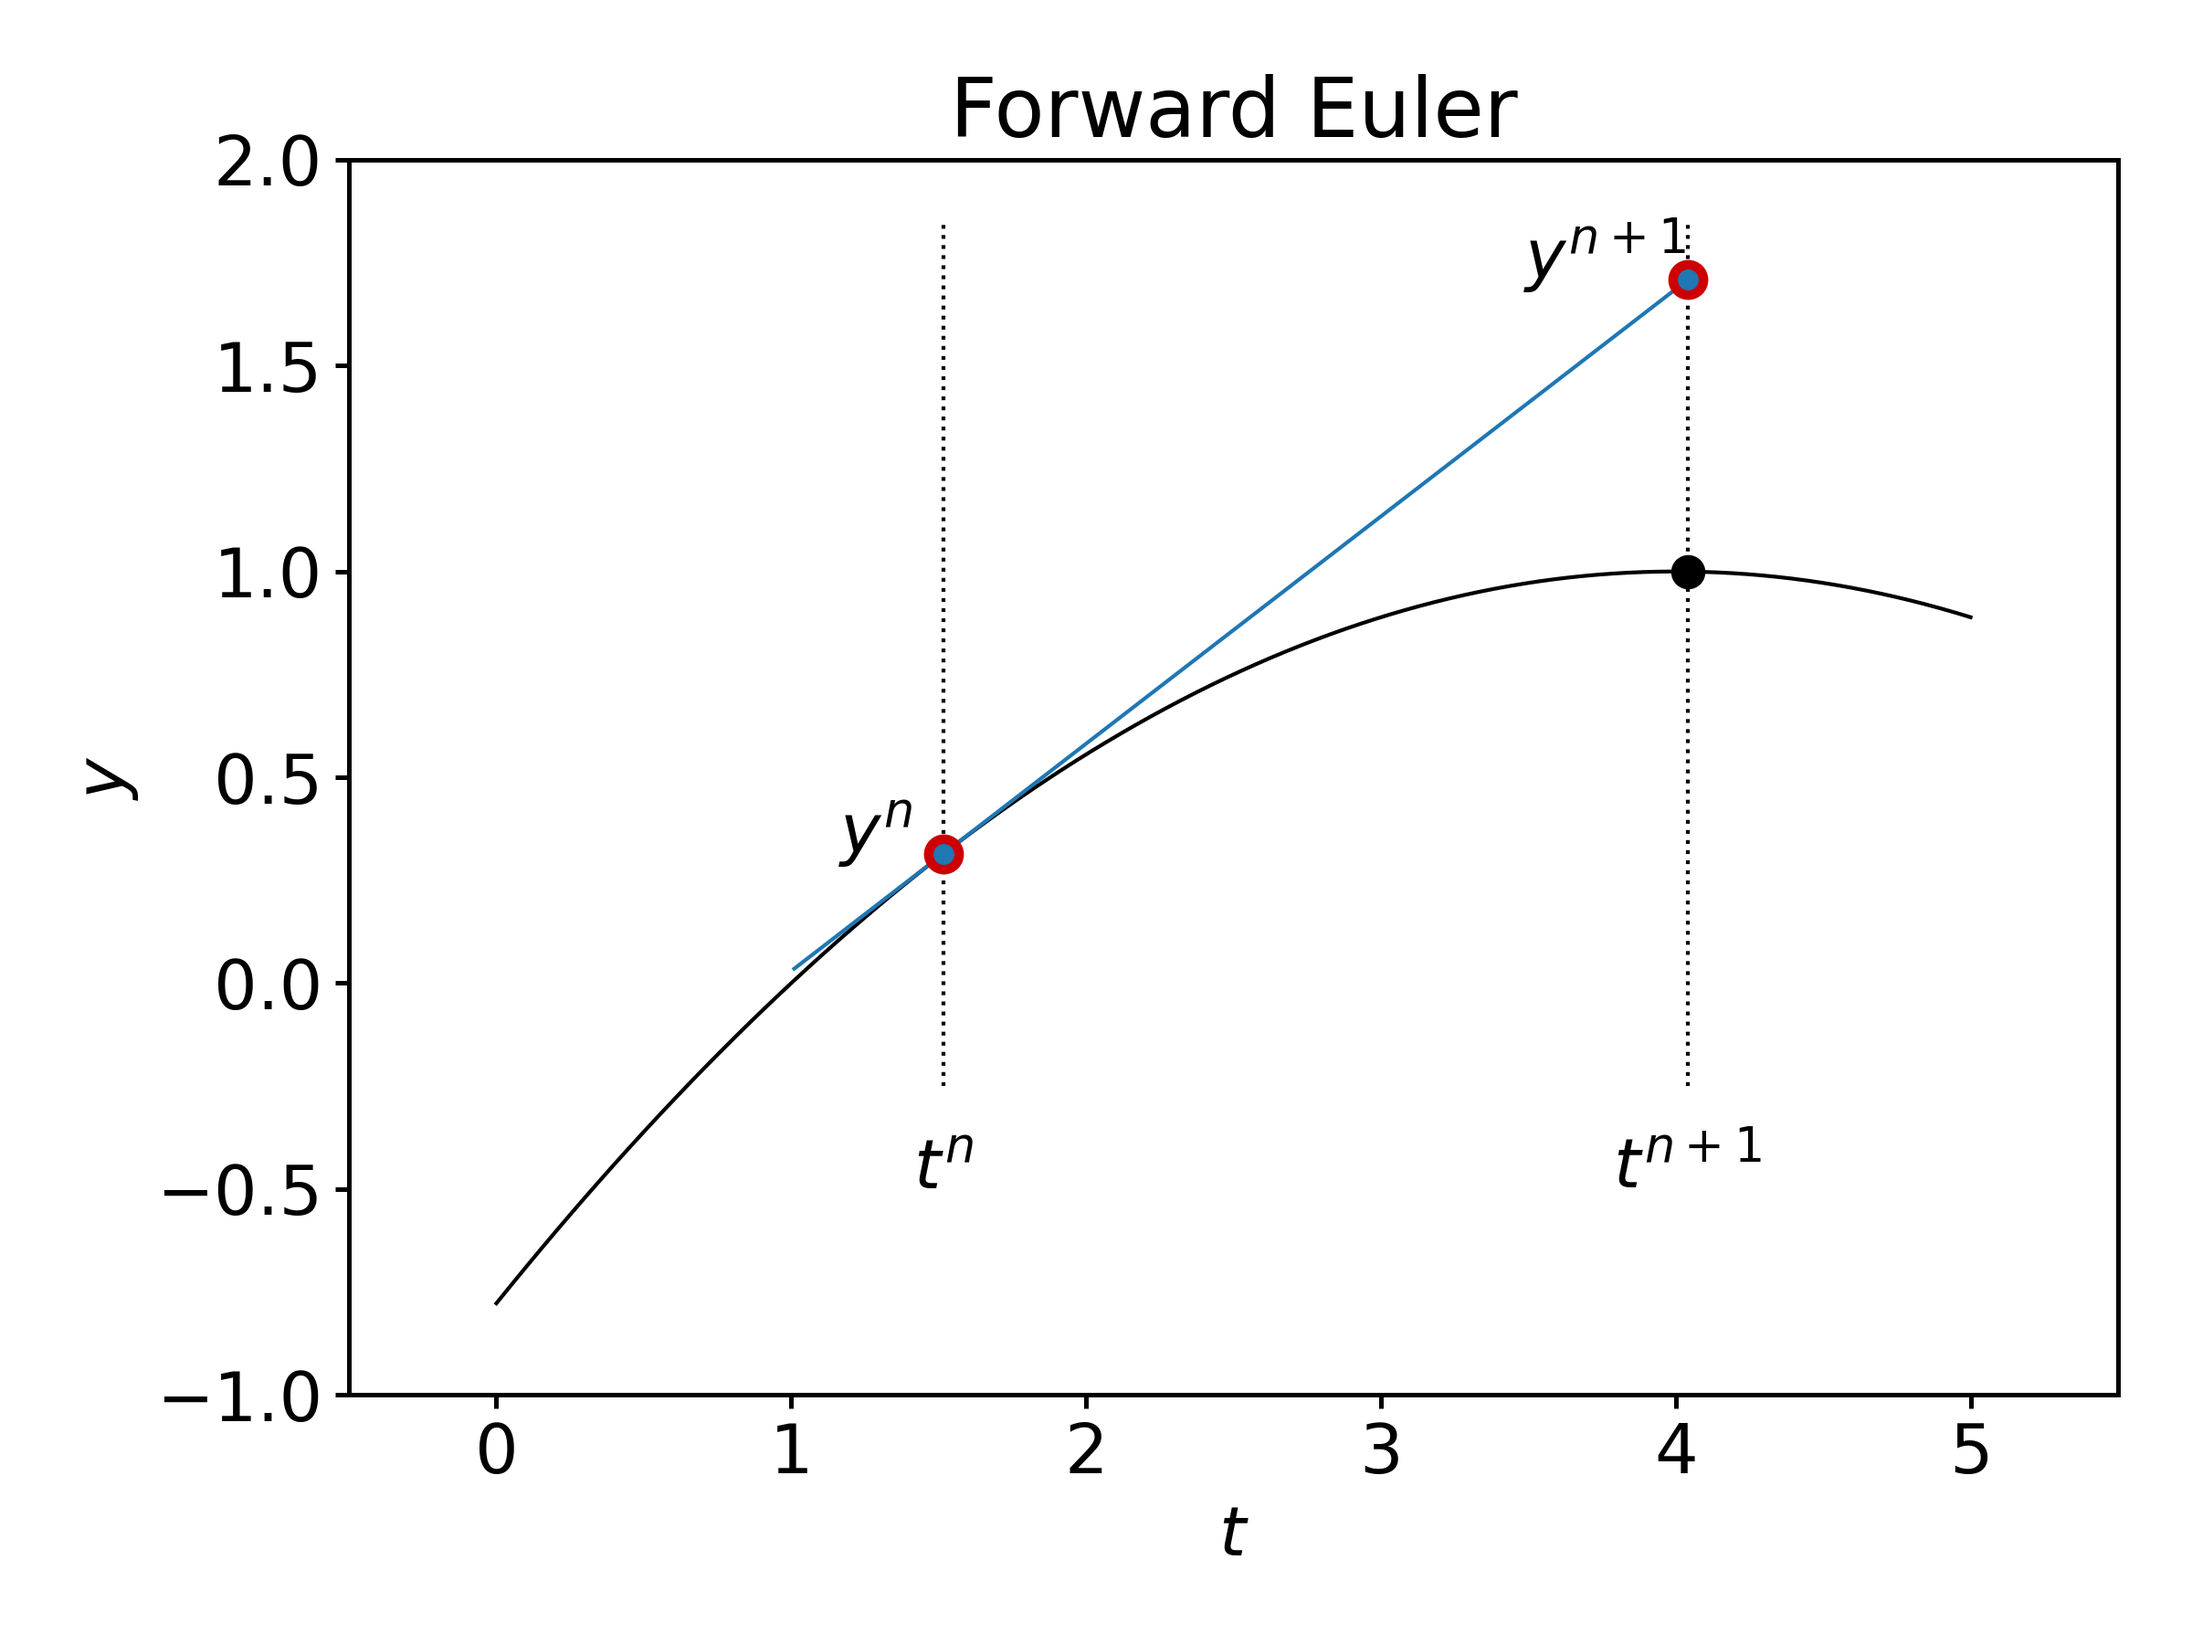
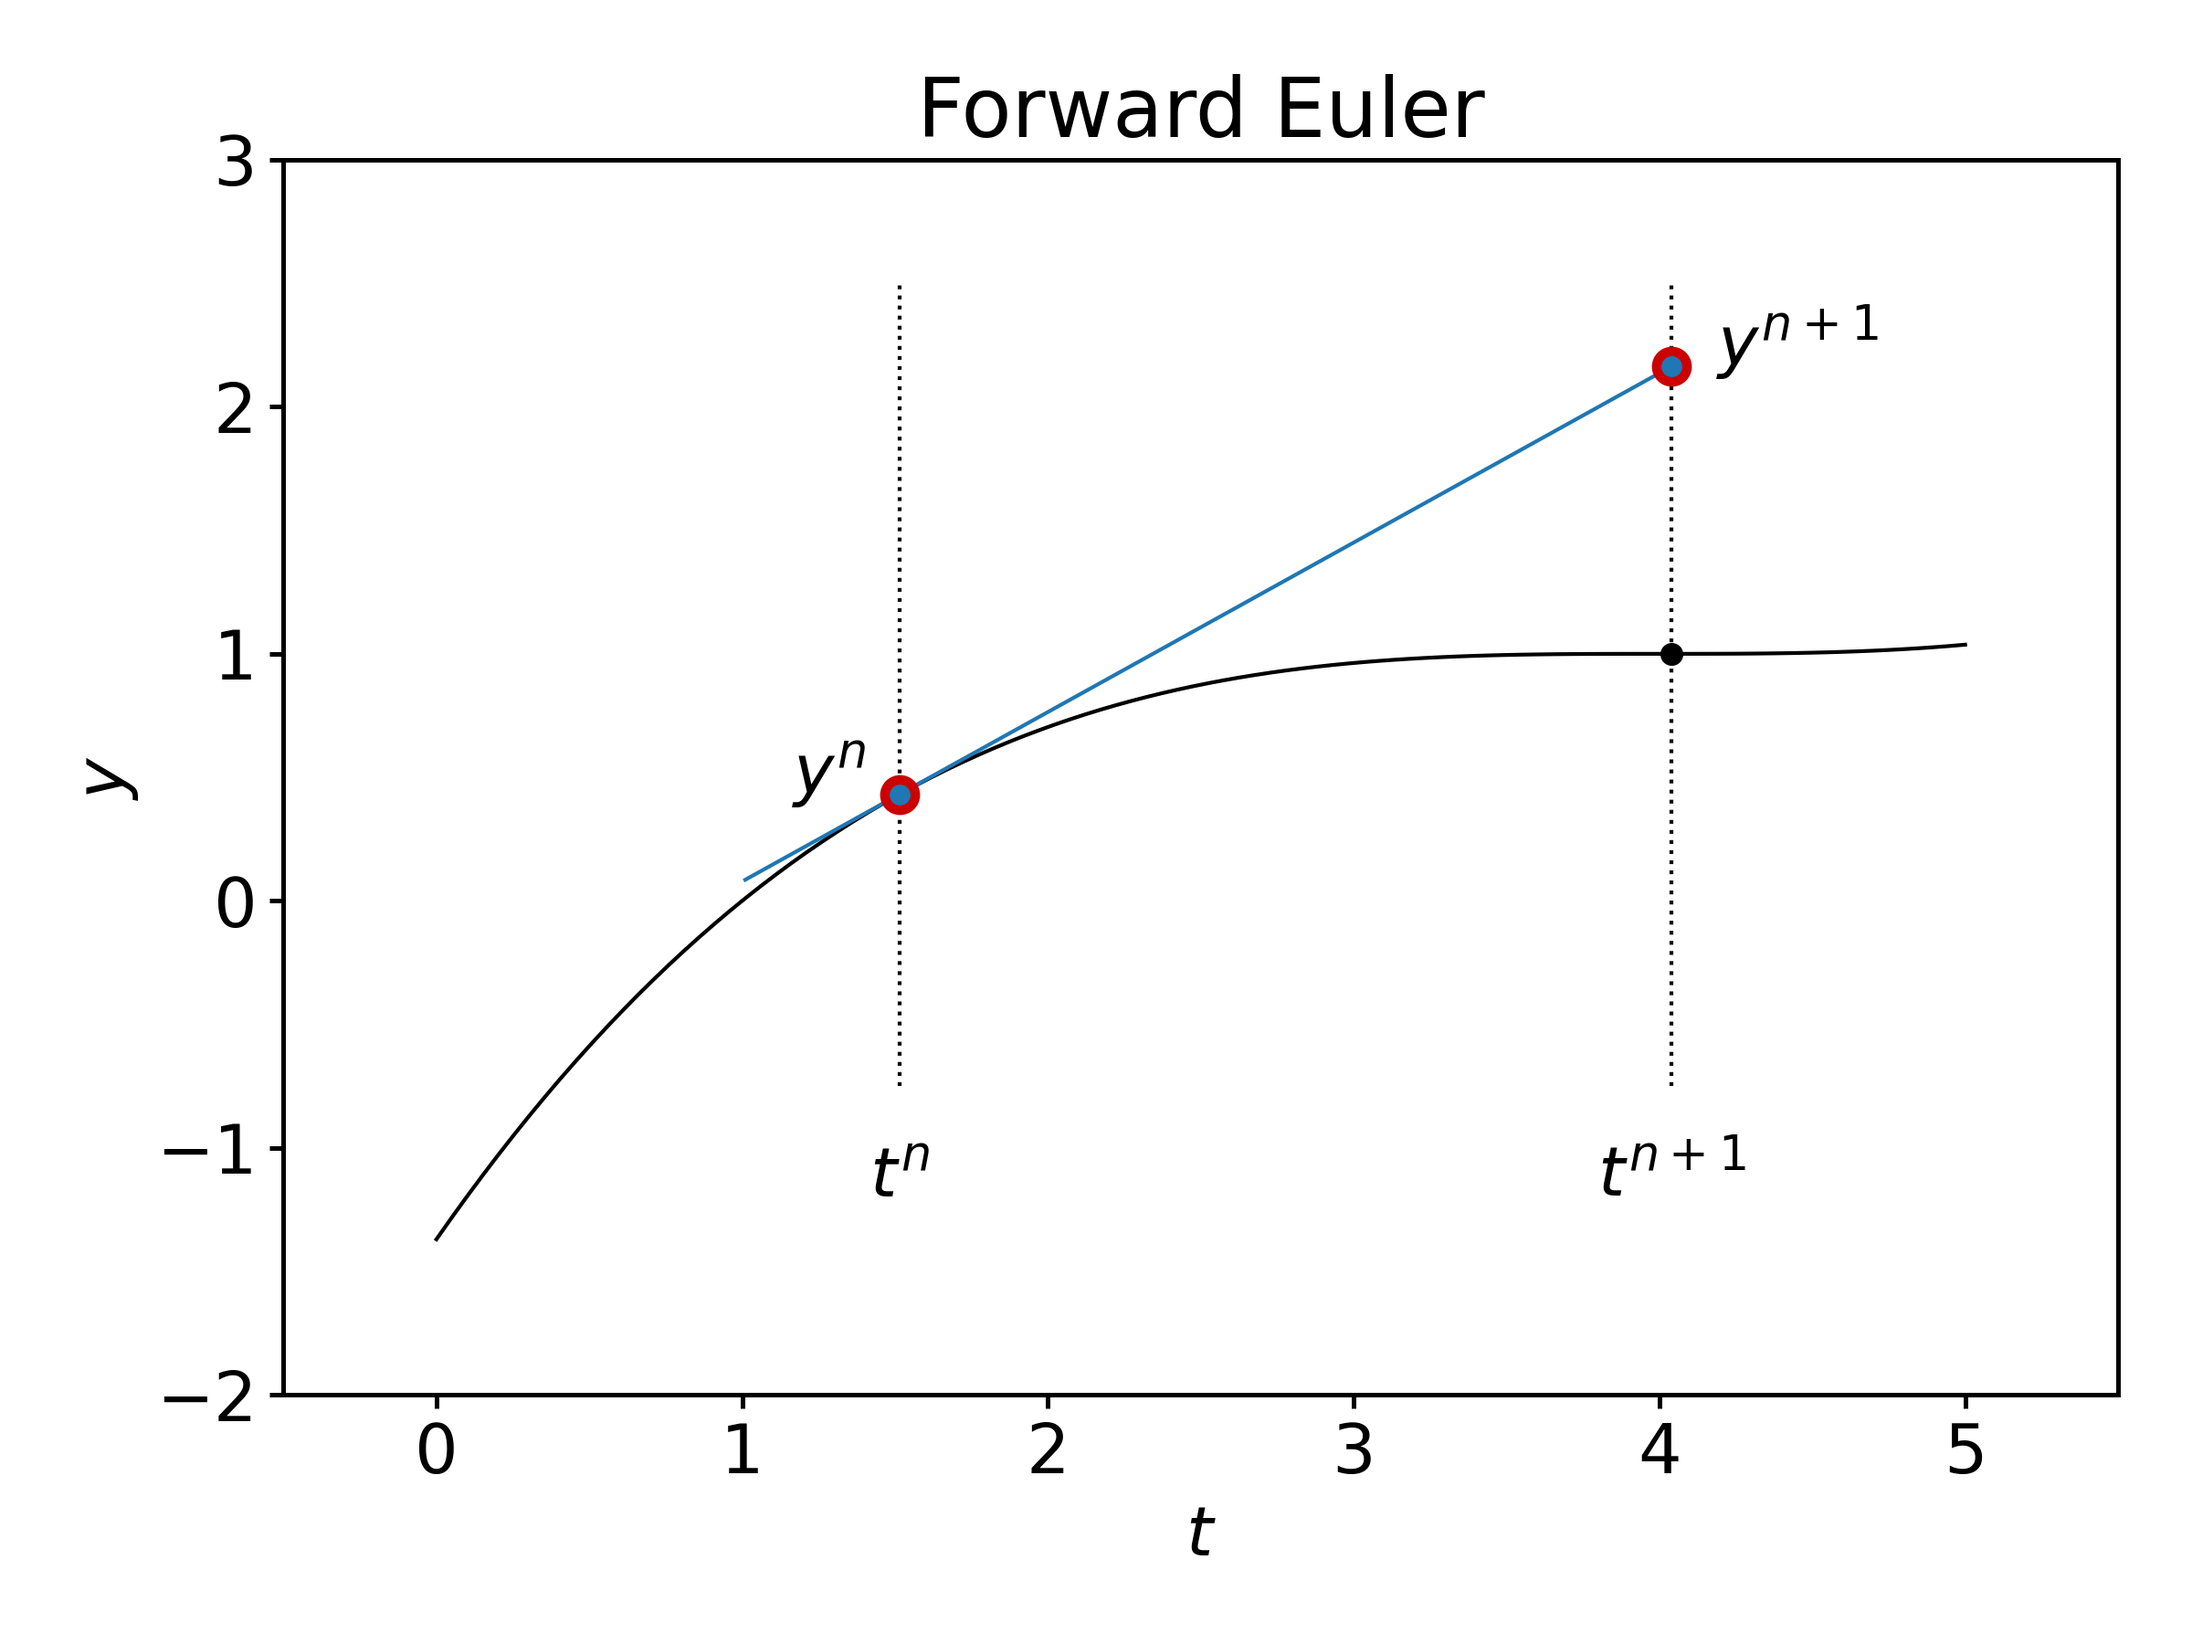
Updated RK2 and Euler demonstration graphs
- Fixed RK2 graph to show the exact computing algorithm
- Updated Euler graph to match the previous fix

diff --git a/notebooks/drawings/supportPlots.md b/notebooks/drawings/supportPlots.md
@@ -8,9 +8,9 @@ jupyter:
       format_version: '1.2'
       jupytext_version: 1.6.0
   kernelspec:
-    display_name: 'Python 3.7.7 64-bit (''course'': conda)'
+    display_name: Python 3
     language: python
-    name: python37764bitcoursecondacf09dcbfbf8b41f7b84691ece6539f67
+    name: python3
 ---
 
 ```python
@@ -28,8 +28,8 @@ fig, ax = plt.subplots(figsize=(8,6))
 
 # Curve
 x = np.linspace(0,5,100)
-y = -((x+5)/3. - 3.)**2+1.0
-dy = -2./3.*((x+5)/3.-3.)
+y = ((x+5)/3. - 3.)**3+1.0
+dy = 3./3.*((x+5)/3.-3.)**2
 ax.plot(x, y, color='#000000')
 
 # Vertical locations
@@ -37,26 +37,25 @@ a = 30
 c = 80
 
 # Vertical lines
-ax.axvline(x[a], ymin=0.25, ymax=0.95, ls=':', color='#000000')
-ax.axvline(x[c], ymin=0.25, ymax=0.95, ls=':', color='#000000')
+ax.axvline(x[a], ymin=0.25, ymax=0.9, ls=':', color='#000000')
+ax.axvline(x[c], ymin=0.25, ymax=0.9, ls=':', color='#000000')
 
 # Slopes
 slope_a = dy[a]*(x-x[a])+y[a]
 ax.plot(x[a-10: c],slope_a[a-10: c])
 
 # Markers
-ax.plot(x[c], y[c], marker='o', color='#000000')
+ax.plot(x[c], y[c], marker='o', color='#000000', ms=5)
 
 ax.plot(x[a], y[a], marker='o', markeredgecolor='#cc0000', markeredgewidth=2.5)
 ax.plot(x[c], slope_a[c], marker='o', markeredgecolor='#cc0000', markeredgewidth=2.5)
 
 # Text
-ax.text(x[a], -0.5, r'$t^n$', horizontalalignment='center')
-ax.text(x[c], -0.5, r'$t^{n+1}$', horizontalalignment='center')
+ax.text(x[a], -1.2, r'$t^n$', ha='center')
+ax.text(x[c], -1.2, r'$t^{n+1}$', ha='center')
 
 ax.text(x[a-7], slope_a[a], r'$y^n$')
-ax.text(x[c-11], slope_a[c], r'$y^{n+1}$')
-
+ax.text(x[c-11]+0.7, slope_a[c], r'$y^{n+1}$')
 
 # Final formatting
 ax.set_xlabel(r'$t$')
@@ -64,7 +63,8 @@ ax.set_ylabel(r'$y$')
 ax.set_title('Forward Euler')
 
 ax.set_xlim(-0.5,5.5)
-ax.set_ylim(-1,2)
+ax.set_ylim(-2., 3.)
+
 
 # Save figure. Default format is png.
 # dpi defines the resolution in dots per inch.
@@ -78,11 +78,11 @@ fig, ax = plt.subplots(figsize=(8,6))
 
 # Curve
 x = np.linspace(0,5,100)
-y = -((x+5)/3. - 3.)**2+1.0
-dy = -2./3.*((x+5)/3.-3.)
+y = ((x+5)/3. - 3.)**3+1.0
+dy = 3./3.*((x+5)/3.-3.)**2
 ax.plot(x, y, color='#000000')
 
-# Vertical locations
+# Horizontal locations
 a = 30
 b = 55
 c = 80
@@ -94,28 +94,35 @@ ax.axvline(x[c], ymin=0.25, ymax=0.9, ls=':', color='#000000')
 
 # Slopes
 slope_a = dy[a]*(x-x[a])+y[a]
-ax.plot(x[a-10: b],slope_a[a-10: b])
+ax.plot(x[a-10: b],  slope_a[a-10: b])
 
-slope_b = dy[b] * (x-x[b]) + slope_a[b]
-ax.plot(x[b: c],slope_b[b: c])
+slope_b_star = (dy[b]-.08) * (x-x[b]) + slope_a[b]
+ax.plot(x[a: c], slope_b_star[a: c], '--')
+
+slope_b = (dy[b]-.08) * (x-x[a]) + y[a]
+ax.plot(x[a: c], slope_b[a: c])
 
 # Markers
-ax.plot(x[b], y[b], marker='o', color='#000000')
-ax.plot(x[c], y[c], marker='o', color='#000000')
+ax.plot(x[b], y[b], marker='o', color='#000000', ms=5)
+ax.plot(x[c], y[c], marker='o', color='#000000', ms=5)
 
 ax.plot(x[a], y[a], marker='o', markeredgecolor='#cc0000', markeredgewidth=2.5)
 ax.plot(x[b], slope_a[b], marker='o', markeredgecolor='#cc0000', markeredgewidth=2.5)
 ax.plot(x[c], slope_b[c], marker='o', markeredgecolor='#cc0000', markeredgewidth=2.5)
 
 # Text
-ax.text(x[a], -0.5, r'$t^n$', horizontalalignment='center')
-ax.text(x[b], -0.5, r'$t^n+\frac{dt}{2}$', horizontalalignment='center')
-ax.text(x[c], -0.5, r'$t^{n+1}$', horizontalalignment='center')
+ax.text(x[a], -1.4, r'$t^n$', ha='center')
+ax.text(x[b], -1.4, r'$t^n+\frac{dt}{2}$', ha='center')
+ax.text(x[c], -1.4, r'$t^{n+1}$', ha='center')
 
 ax.text(x[a-7], slope_a[a], r'$y^n$')
-ax.text(x[b-7], slope_a[b], r'$y^*$')
-ax.text(x[c-11], slope_b[c], r'$y^{n+1}$')
+ax.text(x[b-7], slope_a[b], r'$y^*$', va='bottom')
+ax.text(x[c-11]+0.7, slope_b[c], r'$y^{n+1}$')
 
+# Arrow
+ax.arrow(x[a], slope_b_star[a], 0., slope_b[a] - slope_b_star[a],
+         head_width=0.1, head_length=0.1, fc='k', ec='k',
+         length_includes_head= True, zorder=4)
 
 # Final formatting
 ax.set_xlabel(r'$t$')
@@ -123,7 +130,7 @@ ax.set_ylabel(r'$y$')
 ax.set_title('Second-order Runge-Kutta')
 
 ax.set_xlim(-0.5,5.5)
-ax.set_ylim(-1,2)
+ax.set_ylim(-2., 2.)
 
 # Save figure. Default format is png.
 # dpi defines the resolution in dots per inch.
